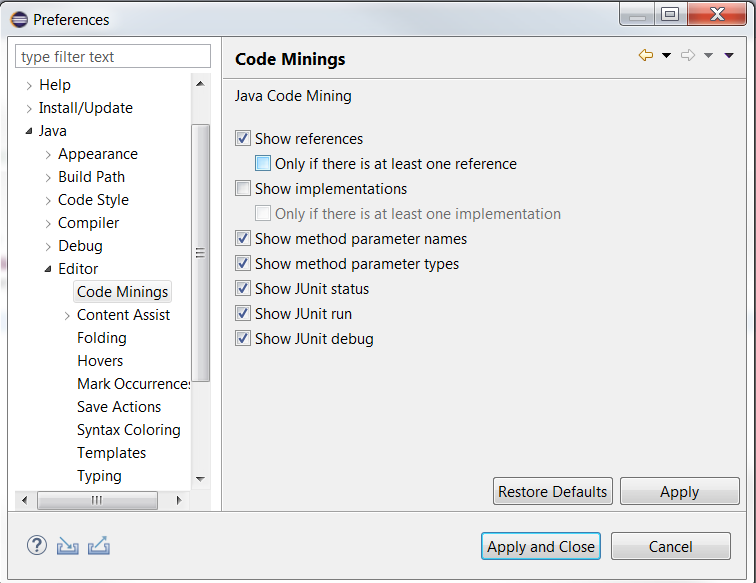
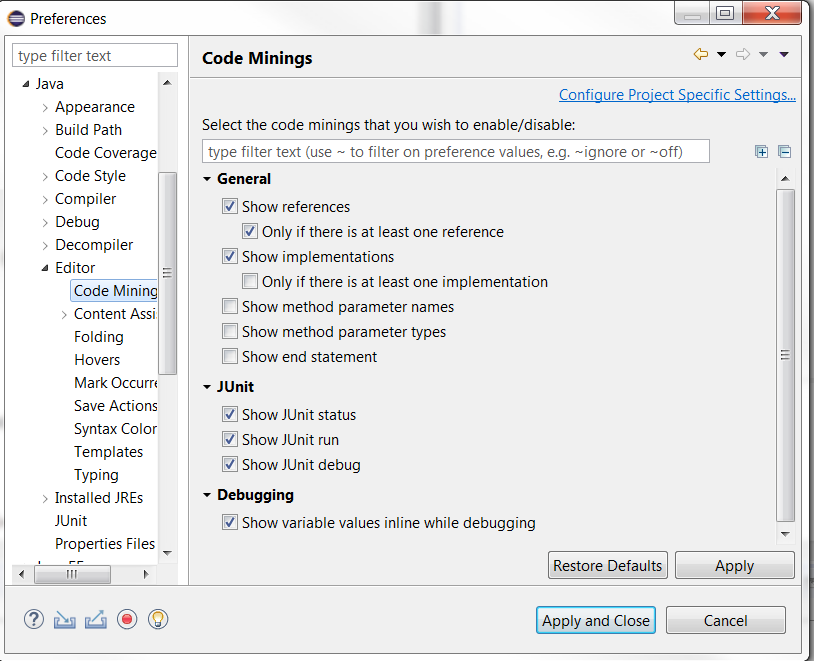
Add Git section.

Changed region(s): [[0.0, 0.0, 1.0, 1.0]]

diff --git a/README.md b/README.md
@@ -2,7 +2,7 @@
 
 [![Build Status](https://secure.travis-ci.org/angelozerr/jdt-codemining.png)](http://travis-ci.org/angelozerr/jdt-codemining)
 
-Eclipse plugin for `JDT Java CodeMining` (Experimental)
+Eclipse plugin for `JDT Java Code Mining` anf `Git Code Mining` (Experimental)
 
 ![JUnit CodeMining Demo](images/JUnitCodeMiningDemo.gif)
 
@@ -22,19 +22,30 @@ Issues can be about:
 
 # Features
 
+## Java
+
 jdt-codemining provides several JDT Java CodeMining:
 
- * `Show references`
- * `Show implementations`
- * `Show method parameter names`
- * `Show method parameter types`
- * `Show JUnit status`
- * `Show JUnit run`
- * `Show JUnit debug`
- 
+ * `General`
+   * `Show references`
+   * `Show implementations`
+   * `Show method parameter names`
+   * `Show method parameter types`
+   * `Show end statement`
+ * `JUnit`   
+   * `Show JUnit status`
+   * `Show JUnit run`
+   * `Show JUnit debug`
+* `Debugging`
+   * `Show variable values inline while debugging`
+
 By default minings are disabled, you must activate them with preferences:
 
 ![](images/JavaCodeMiningPreferences.png)
+
+## EGit
+
+TODO
 
 # Install
 
